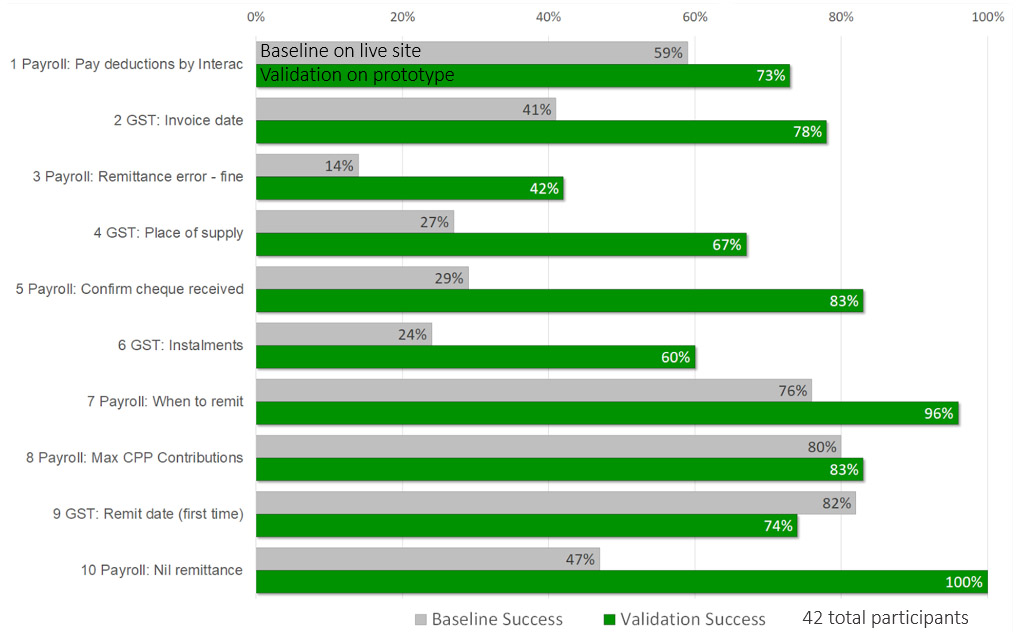
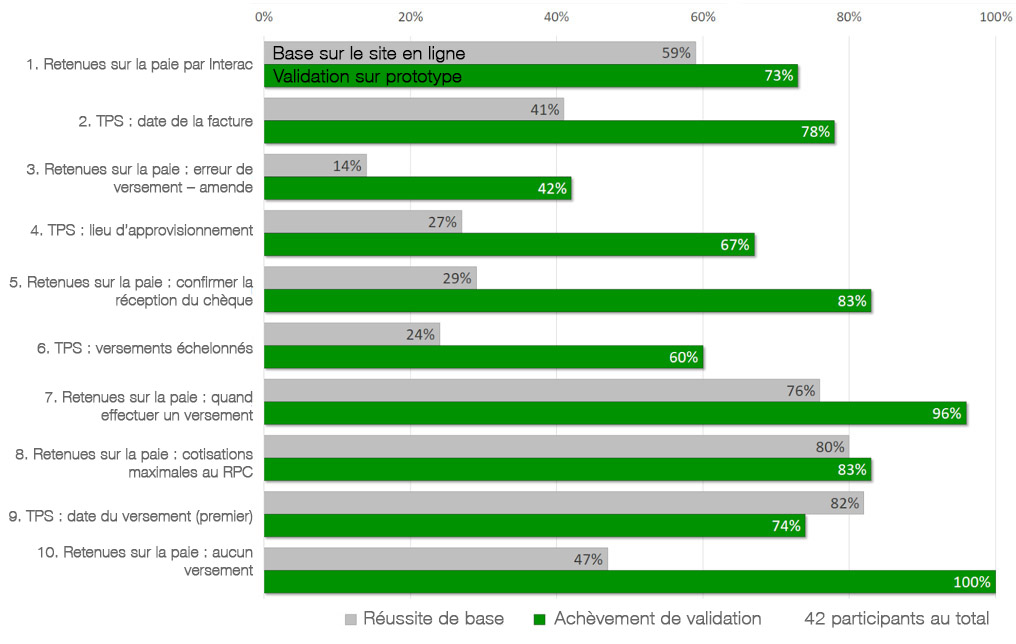
updates

diff --git a/research-summaries/impots-resume-researche.html b/research-summaries/impots-resume-researche.html
@@ -90,17 +90,17 @@
 
   <div class="post-content" itemprop="articleBody">
 
-    <p>En novembre 2017, le projet d’optimisation de la production de déclarations de la TPS/TVH a été entrepris dans le but de faciliter la tâche aux entreprises canadiennes qui souhaitent s’acquitter de leurs obligations en matière de TPS/TVH et de retenues sur la paie. Les concepteurs et les chercheurs du Bureau de la transformation numérique (BTN) du Secrétariat du Conseil du Trésor du Canada (SCT) ont formé une équipe multidisciplinaire avec l’Agence du revenu du Canada (ARC). L’équipe était composée de représentants des programmes de l’expérience utilisateur de l’ARC, de l’édition Web, de la TPS/TVH et des retenues sur la paie, ainsi que des agents des centres d’appels qui ont aidé directement les Canadiens.</p>
+    <p>En novembre 2017, le projet d’optimisation de la production de déclarations de la <abbr title="taxe sur les produits et services/taxe de vente harmonisée">TPS/TVH</abbr> a été entrepris dans le but de faciliter la tâche aux entreprises canadiennes qui souhaitent s’acquitter de leurs obligations en matière de <abbr title="taxe sur les produits et services/taxe de vente harmonisée">TPS/TVH</abbr> et de retenues sur la paie. Les concepteurs et les chercheurs du Bureau de la transformation numérique (BTN) du Secrétariat du Conseil du Trésor du Canada (SCT) ont formé une équipe multidisciplinaire avec l’Agence du revenu du Canada (ARC). L’équipe était composée de représentants des programmes de l’expérience utilisateur de l’<abbr title="Agence du revenu du Canada"ARC</abbr>, de l’édition Web, de la <abbr title="taxe sur les produits et services/taxe de vente harmonisée">TPS/TVH</abbr> et des retenues sur la paie, ainsi que des agents des centres d’appels qui ont aidé directement les Canadiens.</p>
 
 <h2 id="discovery">Découverte</h2>
 
 <p>L’équipe a commencé par faire des recherches sur les tâches sur le site Canada.ca, en utilisant les sources de données existantes.</p>
 
-<p>Chaque mois, l’ARC mène un sondage de sortie sur les tâches principales pour en apprendre davantage sur la façon dont les citoyens utilisent les services numériques. Il est demandé aux personnes qui consultent les pages de l’ARC ce qu’elles ont tenté d’effectuer et si elles y sont parvenues. « Produire une déclaration de TPS/TVH » et « Calculer les retenues sur la paie » sont des tâches principales qui reviennent souvent.  </p>
+<p>Chaque mois, l’<abbr title="Agence du revenu du Canada"ARC</abbr> mène un sondage de sortie sur les tâches principales pour en apprendre davantage sur la façon dont les citoyens utilisent les services numériques. Il est demandé aux personnes qui consultent les pages de l’<abbr title="Agence du revenu du Canada"ARC</abbr> ce qu’elles ont tenté d’effectuer et si elles y sont parvenues. « Produire une déclaration de <abbr title="taxe sur les produits et services/taxe de vente harmonisée">TPS/TVH</abbr> » et « Calculer les retenues sur la paie » sont des tâches principales qui reviennent souvent.  </p>
 
-<p>Les données sur le trafic Web ont montré que les pages traitant du calcul des retenues sur la paie et des déclarations des retenues sur la paie ont reçu plus de 4,2 millions de visites en 2017. Le sujet des déclarations de TPS/TVH a reçu plus de 1,3 million de visites. Plus de 88 % des personnes effectuent ces tâches à un ordinateur de bureau ou un ordinateur portatif, et non à l’aide d’un appareil mobile. Ce renseignement a été utile à la préparation des tests. </p>
+<p>Les données sur le trafic Web ont montré que les pages traitant du calcul des retenues sur la paie et des déclarations des retenues sur la paie ont reçu plus de 4,2 millions de visites en 2017. Le sujet des déclarations de <abbr title="taxe sur les produits et services/taxe de vente harmonisée">TPS/TVH</abbr> a reçu plus de 1,3 million de visites. Plus de 88 % des personnes effectuent ces tâches à un ordinateur de bureau ou un ordinateur portatif, et non à l’aide d’un appareil mobile. Ce renseignement a été utile à la préparation des tests. </p>
 
-<p>Nous avons analysé le degré de lisibilité des pages sur la TPS/TVH et les retenues sur la paie. L’analyse quantitative a confirmé ce qui semble intuitif : les pages Web sur les obligations fiscales sont assez difficiles à lire. Environ 24 % du texte des pages principales sur la TPS/TVH et les retenues sur la paie comptaient de longues phrases, et 17 % étaient rédigées à la forme passive. Le Guide de rédaction du contenu du site Canada.ca et les experts en langage clair recommandent d’utiliser des phrases courtes et d’écrire à la forme active. </p>
+<p>Nous avons analysé le degré de lisibilité des pages sur la <abbr title="taxe sur les produits et services/taxe de vente harmonisée">TPS/TVH</abbr> et les retenues sur la paie. L’analyse quantitative a confirmé ce qui semble intuitif : les pages Web sur les obligations fiscales sont assez difficiles à lire. Environ 24 % du texte des pages principales sur la <abbr title="taxe sur les produits et services/taxe de vente harmonisée">TPS/TVH</abbr> et les retenues sur la paie comptaient de longues phrases, et 17 % étaient rédigées à la forme passive. Le Guide de rédaction du contenu du site Canada.ca et les experts en langage clair recommandent d’utiliser des phrases courtes et d’écrire à la forme active. </p>
 
 <p>Nous commencions alors à comprendre les problèmes auxquels les Canadiens étaient confrontés lorsqu’ils tentaient de s’acquitter de leurs obligations fiscales en ligne. L’étape suivante consistait à confirmer les hypothèses au moyen de tests de facilité d’emploi modérés à distance. </p>
 
@@ -108,24 +108,24 @@
 
 <h2 id="">Établissement d’une référence</h2>
 
-<p>Pour vérifier les hypothèses, l’équipe a créé 16 tâches possibles liées à la production de déclarations des entreprises. Nous avons créé un sondage en ligne simple, afin que les agents de centre d’appels et les experts en la matière de l’ARC puissent  commenter ces tâches. Grâce à ces commentaires, l’équipe a réduit la liste à dix scénarios de tâches, avec bon espoir qu’ils étaient exacts et qu’ils reflétaient des problèmes réels des citoyens.  </p>
+<p>Pour vérifier les hypothèses, l’équipe a créé 16 tâches possibles liées à la production de déclarations des entreprises. Nous avons créé un sondage en ligne simple, afin que les agents de centre d’appels et les experts en la matière de l’<abbr title="Agence du revenu du Canada"ARC</abbr> puissent  commenter ces tâches. Grâce à ces commentaires, l’équipe a réduit la liste à dix scénarios de tâches, avec bon espoir qu’ils étaient exacts et qu’ils reflétaient des problèmes réels des citoyens.  </p>
 
 <!-- table goes here -->
 
-<p>Nous avons procédé à des tests modérés à distance pour les ordinateurs de bureau et les ordinateurs portatifs afin d’établir la base de référence. Les tests ont été effectués par 17 participants de l’ensemble du Canada (14 en anglais et 3 en français). Nous avons recruté des propriétaires de petites entreprises, avons cherché des travailleurs autonomes ou des propriétaires uniques, sans expérience préalable de la TPS/TVH ou des retenues sur la paie.</p>
+<p>Nous avons procédé à des tests modérés à distance pour les ordinateurs de bureau et les ordinateurs portatifs afin d’établir la base de référence. Les tests ont été effectués par 17 participants de l’ensemble du Canada (14 en anglais et 3 en français). Nous avons recruté des propriétaires de petites entreprises, avons cherché des travailleurs autonomes ou des propriétaires uniques, sans expérience préalable de la <abbr title="taxe sur les produits et services/taxe de vente harmonisée">TPS/TVH</abbr> ou des retenues sur la paie.</p>
 
 <p>Nous avons demandé aux participants d’effectuer les dix tâches en une heure. S’ils ont pris plus de cinq minutes pour accomplir une tâche, nous avons jugé que c’était trop long pour être considéré comme une réussite et nous les avons fait passer à la question suivante. </p>
 
-<p>L’ordre des scénarios a été soigneusement choisi pour éviter les effets d’apprentissage, et la moitié des participants ont reçu les tâches dans l’ordre inverse. Pour certaines tâches, les personnes commençaient à la page d’accueil du site Canada.ca, tandis que d’autres commençaient à la page de l’ARC ou aux pages thématiques de la TPS/TVH ou des retenues sur la paie du site Canada.ca. Un modérateur expert a dirigé les tests.</p>
+<p>L’ordre des scénarios a été soigneusement choisi pour éviter les effets d’apprentissage, et la moitié des participants ont reçu les tâches dans l’ordre inverse. Pour certaines tâches, les personnes commençaient à la page d’accueil du site Canada.ca, tandis que d’autres commençaient à la page de l’<abbr title="Agence du revenu du Canada"ARC</abbr> ou aux pages thématiques de la <abbr title="taxe sur les produits et services/taxe de vente harmonisée">TPS/TVH</abbr> ou des retenues sur la paie du site Canada.ca. Un modérateur expert a dirigé les tests.</p>
 
-<p>Au cours de cette première série de tests, nous avons organisé des séances d’observation de vidéos des tests de facilité d’emploi. Elles ont permis de mieux comprendre le fonctionnement des tests de facilité d’emploi. Les experts de l’ARC qui ont rédigé les pages Web ont vu de vraies personnes les utiliser, et ils ont généralement trouvé cela révélateur. </p>
+<p>Au cours de cette première série de tests, nous avons organisé des séances d’observation de vidéos des tests de facilité d’emploi. Elles ont permis de mieux comprendre le fonctionnement des tests de facilité d’emploi. Les experts de l’<abbr title="Agence du revenu du Canada"ARC</abbr> qui ont rédigé les pages Web ont vu de vraies personnes les utiliser, et ils ont généralement trouvé cela révélateur. </p>
 
 <p>Les résultats des premiers tests ont montré que, en moyenne, les participants ont pu trouver les renseignements dans une proportion de 62%. Cependant, ils ont réussi à compléter les tâches avec succès seulement dans une proportion de 48%. </p>
 
 
 <h2 id="">Restructuration visant à améliorer le taux de réussite des tâches</h2>
 
-<p>Pour la phase des prototypes, nous avons divisé en deux équipes de travail, l’une pour les tâches liées à la TPS/TVH et l’autre pour les tâches liées aux retenues sur la paie. Chaque équipe a passé en revue le rapport des tests initiaux, regardé d’autres vidéos de participants qui tentaient d’accomplir des tâches, et examiné la navigation associée aux clics, c’est-à-dire les séquences de pages que les participants ont visitées. Cela a aidé à montrer quelles pages poussaient les personnes à s’écarter de la voie « idéale ». Parfois, nous l'avons fait parce que le bon lien n’était pas suffisamment évident. À d'autres moments, un autre lien était plus attrayant.
+<p>Pour la phase des prototypes, nous avons divisé en deux équipes de travail, l’une pour les tâches liées à la <abbr title="taxe sur les produits et services/taxe de vente harmonisée">TPS/TVH</abbr> et l’autre pour les tâches liées aux retenues sur la paie. Chaque équipe a passé en revue le rapport des tests initiaux, regardé d’autres vidéos de participants qui tentaient d’accomplir des tâches, et examiné la navigation associée aux clics, c’est-à-dire les séquences de pages que les participants ont visitées. Cela a aidé à montrer quelles pages poussaient les personnes à s’écarter de la voie « idéale ». Parfois, nous l'avons fait parce que le bon lien n’était pas suffisamment évident. À d'autres moments, un autre lien était plus attrayant.
 
 </p>
 
@@ -133,7 +133,7 @@
 
 <br>
 <figure>
-<img class="img-responsive" alt="Saisie d’écran Web montrant la page « Comment et quand faire les versements de retenues à la source » avant et après le remaniement. La description détaillée suit." src="../images/taxes-impots/beforeafter-sourcedeductions.jpg"/>
+<img class="img-responsive" alt="Saisie d’écran Web montrant la page « Comment et quand faire les versements de retenues à la source » avant et après le remaniement. La description détaillée suit." src="../images/taxes-impots/beforeafter-sourcedeductions-FR.jpg"/>
 <figcaption><small>Page « Comment et quand faire les versements de retenues à la source » avant et après le remaniement aux fins de validation (en anglais)</small></figcaption>
 <br>
 
@@ -143,9 +143,9 @@
 Description détaillée
 </summary>
 <br>
-<p>Deux pages Web s’affichent côte à côte. La page de gauche porte la mention « Avant » et montre que la page Web « Comment et quand faire les versements de retenues à la source » du site Canada.ca était extrêmement longue au début du projet. Une flèche pointe vers la page Web avec l'annotation « La page était trop longue pour que les personnes trouvent leur réponse ».</p>
+<p>Deux pages Web s’affichent côte à côte. La page de gauche porte la mention « Version de base » et montre que la page Web « Comment et quand faire les versements de retenues à la source » du site Canada.ca était extrêmement longue au début du projet. Une flèche pointe vers la page Web avec l'annotation « La page était trop longue pour que les personnes trouvent leur réponse ».</p>
 
-<p>La page de droite porte la mention « Après » et affiche la page « Comment et quand payer les retenues à la source (versements) » en cinq étapes : 1. Aperçu, 2 Dates d’échéance, 3 Effectuer un paiement (versement), 4 Confirmer le paiement (versement) reçu et Pour en savoir plus. Une flèche pointe vers les étapes avec l'annotation « Tâches groupées en étapes faciles à survoler». </p>
+<p>La page de droite porte la mention « Nouvelle version » et affiche la page « Comment et quand payer les retenues à la source (versements) » en cinq étapes : 1. Aperçu, 2 Dates d’échéance, 3 Effectuer un paiement (versement), 4 Confirmer le paiement (versement) reçu et Pour en savoir plus. Une flèche pointe vers les étapes avec l'annotation « Tâches groupées en étapes faciles à survoler ». </p>
 
 <p>L'image montre le contenu beaucoup plus court et simple de l'onglet 3. Effectuer un paiement (versement). Au bas de la page, il y a un bouton avec le texte « Faites votre paiement ». Une flèche pointe vers le bouton avec l'annotation « Les boutons attirent l’attention sur l’action principale de la page ».</p>
 
@@ -182,19 +182,19 @@ Description détaillée
 			</tr></thead><tbody><tr><td>1. Retenues sur la paie : retenues sur la paie par Interac</td>
 				<td  >59 %</td>
 				<td>73 %</td>
-			</tr><tr><td>2. TPS : date de la facture</td>
+			</tr><tr><td>2. <abbr title="taxe sur les produits et services">TPS</abbr> : date de la facture</td>
 				<td  >41 %</td>
 				<td>78 %</td>
 			</tr><tr><td>3. Retenues sur la paie : erreur de versement – amende</td>
 				<td  >14 %</td>
 				<td>42 %</td>
-			</tr><tr><td>4. TPS : lieu d’approvisionnement</td>
+			</tr><tr><td>4. <abbr title="taxe sur les produits et services">TPS</abbr> : lieu d’approvisionnement</td>
 				<td  >27 %</td>
 				<td>67 %</td>
 			</tr><tr><td>5. Retenues sur la paie : confirmer la réception du chèque</td>
 				<td  >29 %</td>
 				<td>83 %</td>
-			</tr><tr><td>6. TPS : versements échelonnés </td>
+			</tr><tr><td>6. <abbr title="taxe sur les produits et services">TPS</abbr> : versements échelonnés </td>
 				<td  >24 %</td>
 				<td>60 %</td>
 			</tr><tr><td>7. Retenues sur la paie : quand effectuer un versement </td>
@@ -203,7 +203,7 @@ Description détaillée
 			</tr><tr><td>8. Retenues sur la paie : cotisations maximales au RPC </td>
 				<td  >80 %</td>
 				<td>83 %</td>
-			</tr><tr><td>9. TPS : date du versement (premier) </td>
+			</tr><tr><td>9. <abbr title="taxe sur les produits et services">TPS</abbr> : date du versement (premier) </td>
 				<td  >82 %</td>
 				<td>74 %</td>
 			</tr><tr><td>10. Retenues sur la paie : aucun versement </td>
@@ -222,7 +222,7 @@ Description détaillée
 
 <li>Rendre visibles les principales tâches: inclure des mots-clés que les utilisateurs recherchent et comprennent dans les textes et les étiquettes</li>
 
-<li>Organiser pour l'utilisateur: organiser pour un utilisateur qui se déplace à travers les tâches, plutôt qu'à partir d'une structure organisée par l'ARC</li>
+<li>Organiser pour l'utilisateur: organiser pour un utilisateur qui se déplace à travers les tâches, plutôt qu'à partir d'une structure organisée par l'<abbr title="Agence du revenu du Canada"ARC</abbr></li>
 
 <li>Utiliser le langage de l'utilisateur: tout le monde ne comprend pas la terminologie, réduisez l'ambiguïté et incluez des définitions en langage clair</li>
 
@@ -246,7 +246,7 @@ Description détaillée
 <ul>
 
 	<li><a href="#">Voir la nouvelle page XXXX</a> inspirée des nouveaux modèles de ce projet</li>
-	<li><a href="#">L’ARC et le SCT collaborent pour optimiser le contenu des pages Web de la TPS/TVH et des retenues sur la paie</a>, une publication des partenaires de l’optimisation de l’ARC</li>
+	<li><a href="#">L’ARC et le SCT collaborent pour optimiser le contenu des pages Web de la TPS/TVH et des retenues sur la paie</a>, une publication des partenaires de l’optimisation de l’<abbr title="Agence du revenu du Canada"ARC</abbr></li>
 <li><a href="https://canada-ca.github.io/pages/apercu-projet.html">Consultez les aperçus de nos autres projets</a> avec nos partenaires</li>
 
 </ul>
